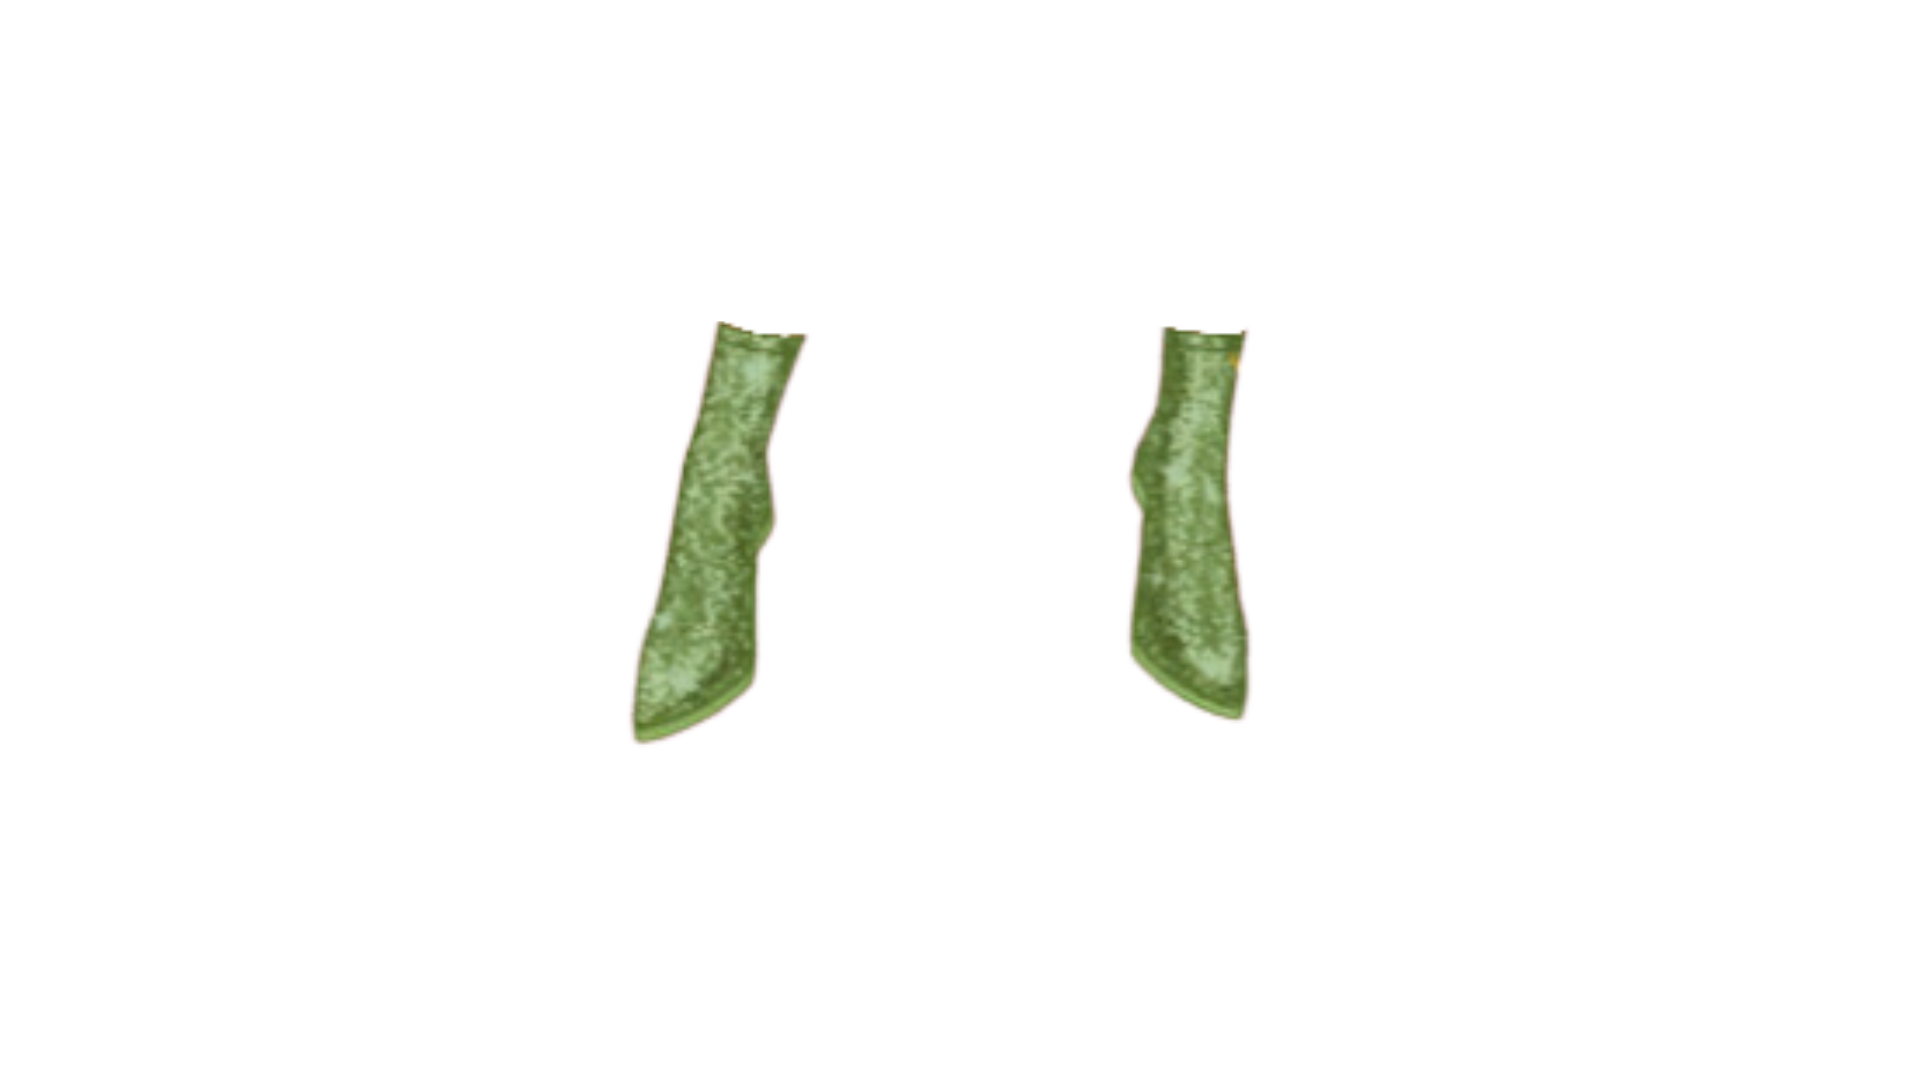
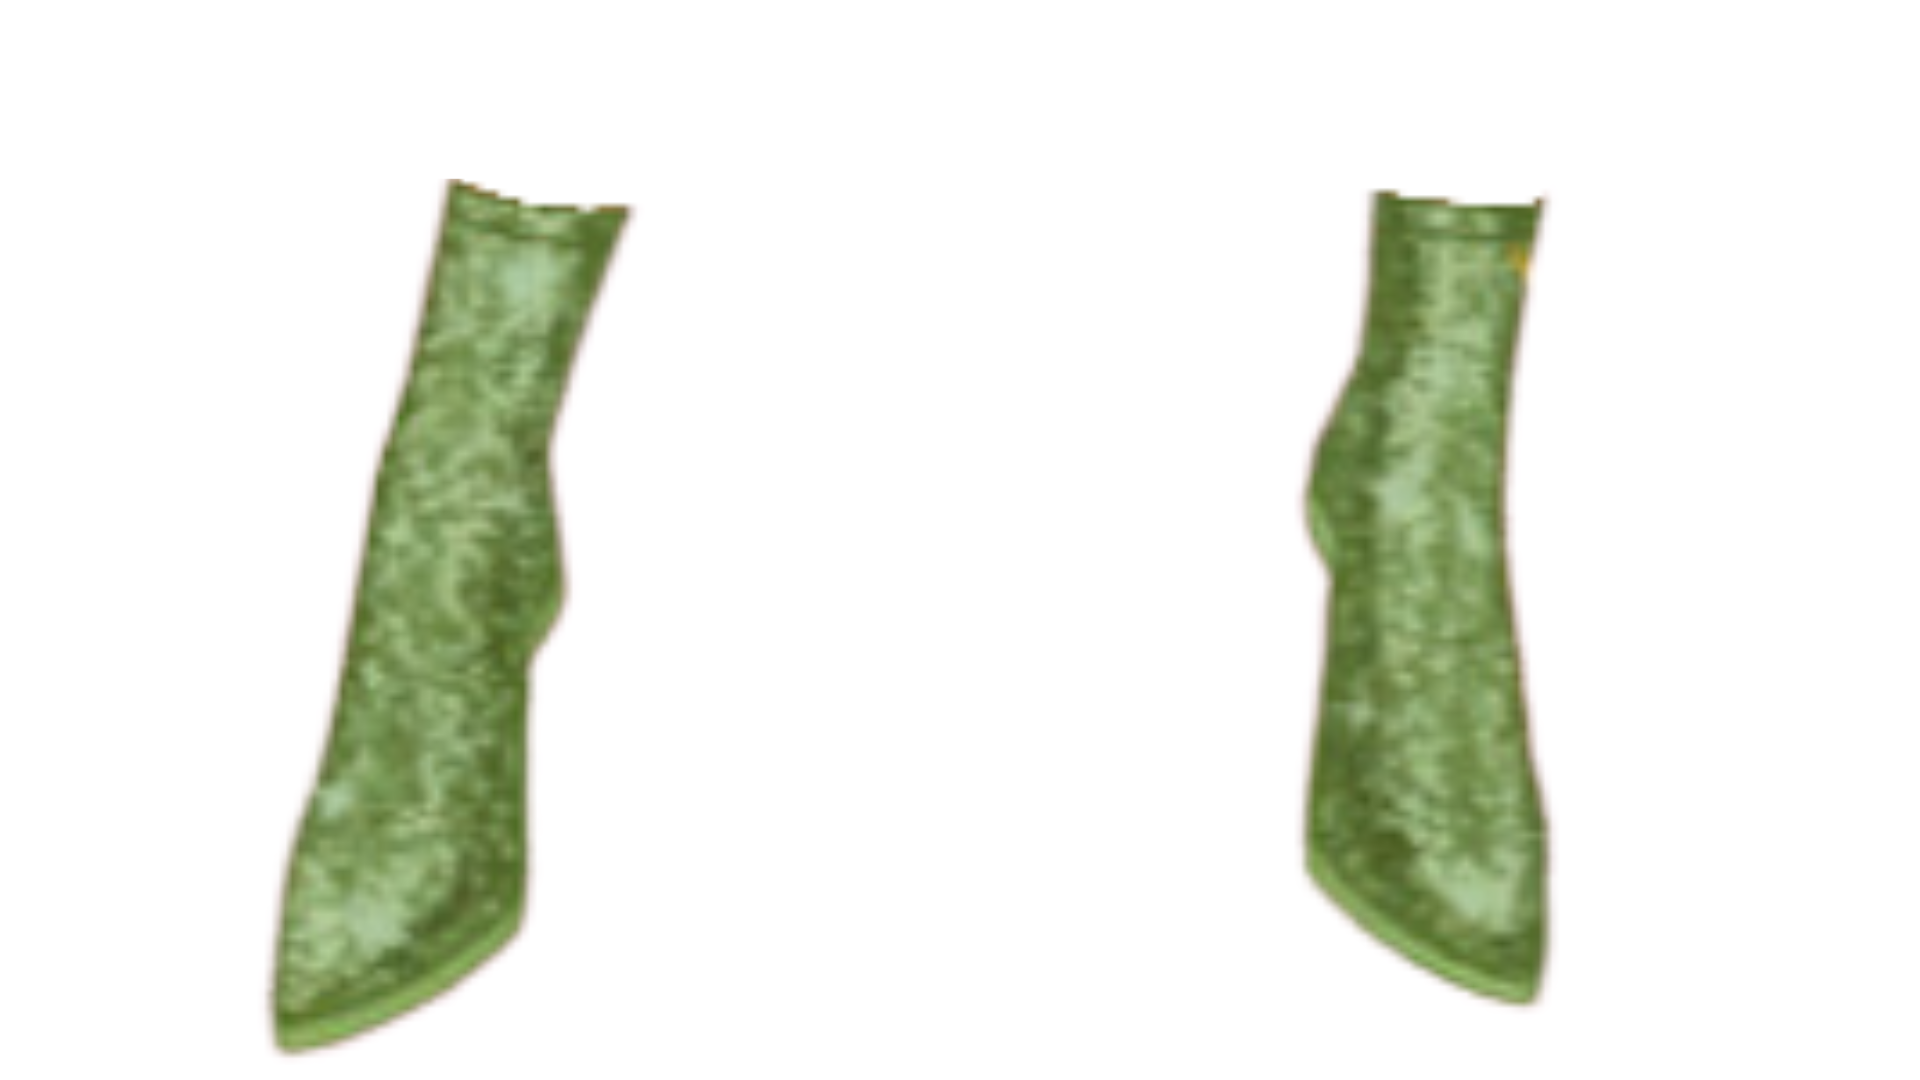
Heels done in all classes

Changed region(s): [[0.125, 0.1528, 0.4375, 0.9778], [0.5625, 0.1528, 0.8125, 0.9472]]

diff --git a/src/Beach.java b/src/Beach.java
@@ -44,14 +44,9 @@ public class Beach {
         beachBottoms.add(new Image ("assets_Clothes/JeanShorts.png"));
         beachBottoms.add(new Image ("assets_Clothes/BlackShorts.png"));
 
-        beachShoes.add(new Image ("assets_Clothes/YellowHeels.png"));
-        beachShoes.add(new Image ("assets_Clothes/WhiteSneakers.png"));
-        beachShoes.add(new Image ("assets_Clothes/PurpleHeels.png"));
-        beachShoes.add(new Image ("assets_Clothes/PinkHeels.png"));
-        beachShoes.add(new Image ("assets_Clothes/NavyHeels.png"));
-        beachShoes.add(new Image ("assets_Clothes/GreenStrapHeels.png"));
-        beachShoes.add(new Image ("assets_Clothes/BlueHeels.png"));
-        beachShoes.add(new Image ("assets_Clothes/BlackBowHeels.png"));
+        beachShoes.add(new Image ("assets_Clothes/GoldHeels.png"));
+        beachShoes.add(new Image ("assets_Clothes/GreenBoots.png"));
+        beachShoes.add(new Image ("assets_Clothes/BlackHeels.png"));
     }
 
 

diff --git a/src/School.java b/src/School.java
@@ -49,15 +49,9 @@ public class School{
       schoolBottoms.add(new Image("assets_Clothes/DarkBlueJean"));
 
 
-      schoolShoes.add(new Image ("assets_Clothes/YellowPearlHeels.png"));
-      schoolShoes.add(new Image ("assets_Clothes/WhiteSneakers.png"));
-      schoolShoes.add(new Image ("assets_Clothes/PurpleHeels.png"));
-      schoolShoes.add(new Image ("assets_Clothes/PurpleHeels.png"));
-      schoolShoes.add(new Image ("assets_Clothes/PinkPearlHeels.png"));
-      schoolShoes.add(new Image ("assets_Clothes/NavyHeels.png"));
-      schoolShoes.add(new Image ("assets_Clothes/GreenStrapHeels.png"));
-      schoolShoes.add(new Image ("assets_Clothes/BlueHeels.png"));
-      schoolShoes.add(new Image ("assets_Clothes/BlackBowHeels.png"));
+      schoolShoes.add(new Image ("assets_Clothes/GoldHeels.png"));
+      schoolShoes.add(new Image ("assets_Clothes/GreenBoots.png"));
+      schoolShoes.add(new Image ("assets_Clothes/BlackHeels.png"));
 
     }
 

diff --git a/src/Winter.java b/src/Winter.java
@@ -1,5 +1,3 @@
-
-
 import java.util.ArrayList;
 import java.util.List;
 
@@ -45,13 +43,9 @@ public class Winter{
       winterBottoms.add(new Image ("assets_Clothes/BlueBowPants.png"));
 
    
-      winterShoes.add(new Image ("assets_Clothes/BlackLongBoots.png"));
-      winterShoes.add(new Image ("assets_Clothes/WhiteSneakers.png"));
+      winterShoes.add(new Image ("assets_Clothes/GoldHeels.png"));
       winterShoes.add(new Image ("assets_Clothes/GreenBoots.png"));
-      winterShoes.add(new Image ("assets_Clothes/RedLongBoots.png"));
-      winterShoes.add(new Image ("assets_Clothes/GreenStrapHeels.png"));
-      winterShoes.add(new Image ("assets_Clothes/BlueHeels.png"));
-      winterShoes.add(new Image ("assets_Clothes/BlackBowHeels.png"));
+      winterShoes.add(new Image ("assets_Clothes/BlackHeels.png"));
   
     }
 
